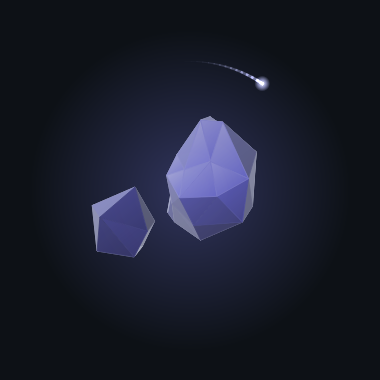
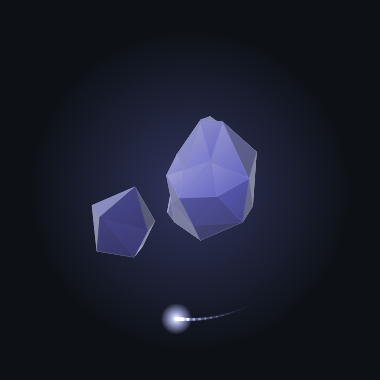
fix: scale the orbiter sparkles; speed up and enlarge the comet
Four changes from judging the avatar on screen at real embed sizes.

The `orbiter` thinking sparkles never scaled. Their core, rays, twinkles
and trail widths were absolute pixels — the `scale` factor in that
function distinguishes which orbit a sparkle belongs to, not how big the
widget is — so on a small embed they held still while everything else
shrank. At a 40px avatar the sparkle core was 6.0px, larger than the
shards it was orbiting; it is now 1.2px, and unchanged at large sizes.

The streaming comet is 50% faster (0.75 -> 1.125 laps/sec) with a head
twice the radius. Both were judged live, not derived.

Mark phase now lives in the model as an integrated value rather than
being recomputed in the renderer from absolute time. `phase = t * rate`
and `phase += rate * dt` agree only while the rate is constant: change
the rate and the first applies it retroactively to all elapsed time, so
the mark teleports. Integrating is what will let a mark's rate become a
smoothed per-state channel the way its mix weight already is. Free
evidence that the two forms agree today: regenerating the state stills
changed only streaming.png, with listening.png byte-identical.

Also corrects prose that called `error` amber in three places. ERROR is
coral (250,110,85); NOTIFY is the amber one. The pictures were right.

Changed region(s): [[0.4053, 0.7816, 0.6079, 0.8974], [0.6658, 0.2026, 0.7237, 0.2605], [0.5789, 0.1737, 0.6658, 0.2026]]

diff --git a/src/ai_identicon/widget.py b/src/ai_identicon/widget.py
@@ -488,7 +488,7 @@ class PresenceWidget(QWidget):
         m = self.model
         p.setBrush(Qt.NoBrush)
         for j in range(2):
-            prog = (m.t * 0.35 * k_t + j / 2.0) % 1.0
+            prog = (m.ripple_phase + j / 2.0) % 1.0
             rr = ring * (1.18 - 0.20 * prog)
             pen = QPen(QColor(*disp, int(55 * math.sin(math.pi * prog) * trace)))
             pen.setWidthF(1.3)
@@ -500,8 +500,8 @@ class PresenceWidget(QWidget):
         fast. Deliberately not the speaking waveform: text is not voice.
 
         The orbit is a FLAT circle at ring radius, which the `orbiter` thinking
-        style (tilted ellipse, closer in, a third the speed, many sparkles) never
-        uses — so the two marks stay legible as different instruments.
+        style (tilted ellipse, closer in, a fraction of the speed, many
+        sparkles) never uses — so the two stay legible as different instruments.
 
         Sized in r-units throughout — the trail spans a fixed arc in radians, the
         widths and head radius are fractions of r — so unlike the rest of this
@@ -509,7 +509,7 @@ class PresenceWidget(QWidget):
         """
         m = self.model
         spark = _lerp_rgb(disp, (255, 255, 255), 0.55)
-        head = m.t * math.tau * 0.75 * k_t   # ~0.75 rev/s, scaled by tempo
+        head = m.comet_phase * math.tau   # rate + integration live in the model
 
         def at(tau):
             return QPointF(cx + ring * math.cos(tau), cy + ring * math.sin(tau))
@@ -527,7 +527,7 @@ class PresenceWidget(QWidget):
         p.setPen(Qt.NoPen)
 
         hd = at(head)
-        core_r = max(1.5, r * 0.13)
+        core_r = max(3.0, r * 0.26)
         core = QRadialGradient(hd, core_r)
         core.setColorAt(0.0, QColor(255, 255, 255, int(235 * comet)))
         core.setColorAt(0.45, QColor(*spark, int(160 * comet)))
@@ -563,7 +563,13 @@ class PresenceWidget(QWidget):
                 return ob["cx"] + ox * tc - oy * ts, ob["cy"] + ox * ts + oy * tc
 
             head_tau = m.t * ob["speed"] * k_t + ob["phase"]
-            scale = min(1.0, ob["rx"] / (r * 1.2))
+            scale = min(1.0, ob["rx"] / (r * 1.2))   # which orbit, not what size
+            # `scale` distinguishes the per-shard orbits from the cluster-wide
+            # one; it does NOT track the widget's size. These sparkle sizes were
+            # authored against r ≈ 60px, so without `u` they stay fixed-size and
+            # swamp a small avatar — at 40px the twinkles were bigger than the
+            # shards. Floors keep strokes from disappearing entirely when tiny.
+            u = r / 60.0
 
             prev = None
             n_trail = 18
@@ -572,7 +578,7 @@ class PresenceWidget(QWidget):
                 if prev is not None:
                     fade = 1.0 - k / n_trail
                     pen = QPen(QColor(*spark_rgb, int(140 * fade ** 1.6 * think)))
-                    pen.setWidthF((0.4 + 2.2 * fade) * scale)
+                    pen.setWidthF(max(0.4, (0.4 + 2.2 * fade) * scale * u))
                     p.setPen(pen)
                     p.drawLine(QPointF(*prev), QPointF(*q))
                 prev = q
@@ -583,16 +589,16 @@ class PresenceWidget(QWidget):
                 tw = abs(math.sin(m.t * 9.0 + j * 2.4 + ob["phase"])) * (1.0 - j / 3.5)
                 if tw < 0.15:
                     continue
-                sz = (0.8 + 2.2 * tw) * scale
+                sz = (0.8 + 2.2 * tw) * scale * u
                 pen = QPen(QColor(*spark_rgb, int(180 * tw * think)))
-                pen.setWidthF(1.0)
+                pen.setWidthF(max(0.4, u))
                 p.setPen(pen)
                 p.drawLine(QPointF(qx - sz, qy), QPointF(qx + sz, qy))
                 p.drawLine(QPointF(qx, qy - sz), QPointF(qx, qy + sz))
             p.setPen(Qt.NoPen)
 
             hxp, hyp = orbit_pos(head_tau)
-            core_r = 6.0 * (0.6 + 0.4 * scale)
+            core_r = max(1.2, 6.0 * (0.6 + 0.4 * scale) * u)
             core = QRadialGradient(QPointF(hxp, hyp), core_r)
             core.setColorAt(0.0, QColor(255, 255, 255, int(225 * think)))
             core.setColorAt(0.4, QColor(*spark_rgb, int(150 * think)))
@@ -600,10 +606,10 @@ class PresenceWidget(QWidget):
             p.setBrush(core)
             p.drawEllipse(QPointF(hxp, hyp), core_r, core_r)
             ray = ((4.5 + 2.0 * math.sin(m.t * 7.0 + ob["phase"]))
-                   * (0.8 + 0.5 * k_e) * (0.6 + 0.4 * scale))
+                   * (0.8 + 0.5 * k_e) * (0.6 + 0.4 * scale) * u)
             rot = m.t * 3.0 + ob["phase"]
             pen = QPen(QColor(255, 255, 255, int(190 * think)))
-            pen.setWidthF(1.1)
+            pen.setWidthF(max(0.4, 1.1 * u))
             p.setPen(pen)
             for base_ang in (rot, rot + math.pi / 2):
                 dxr, dyr = math.cos(base_ang) * ray, math.sin(base_ang) * ray

diff --git a/src/ai_identicon/model.py b/src/ai_identicon/model.py
@@ -71,6 +71,16 @@ TRANSIENT = {AvatarState.NOTIFY: 1.5, AvatarState.SUCCESS: 1.2, AvatarState.ERRO
 _STYLE_SPIN = {"breakup": 1.2, "glow": 0.5, "shimmer": 0.55, "orbiter": 0.5}
 TRACE_SAMPLES = 72
 
+# Ring-mark rates, in laps (or cycles) per second before the personality clock.
+# The MODEL integrates these into a phase instead of the renderer deriving one
+# from absolute time. `phase = t * rate` looks equivalent and is not: the moment
+# a rate changes, that phase JUMPS, because the new rate is applied retroactively
+# to all elapsed time. Accumulating `phase += rate * dt` keeps the mark where it
+# was and merely changes how fast it leaves — which is what lets a rate become a
+# smoothed per-state channel later, the way the mix weights already are.
+COMET_RATE = 1.125   # streaming: laps per second
+RIPPLE_RATE = 0.35   # listening: inward-ripple cycles per second
+
 
 class AvatarModel:
     """Headless animation state for one avatar. Drive with set_state() and
@@ -104,6 +114,8 @@ class AvatarModel:
         self.sac_target = (0.0, 0.0)
         self.next_saccade = 0.0
         self.rings: list[float] = []    # notify-ring birth times (renderer reads)
+        self.comet_phase = 0.0          # streaming comet, in laps (0..1)
+        self.ripple_phase = 0.0         # listening ripples, in cycles (0..1)
 
         self.set_genome(genome)
 
@@ -231,6 +243,11 @@ class AvatarModel:
             self.set_state(AvatarState.IDLE)
 
         k_t = self.k_t
+
+        # integrated mark phases (see COMET_RATE / RIPPLE_RATE) — kept in laps,
+        # 0..1, so the renderer only has to scale them into radians
+        self.comet_phase = (self.comet_phase + COMET_RATE * k_t * dt) % 1.0
+        self.ripple_phase = (self.ripple_phase + RIPPLE_RATE * k_t * dt) % 1.0
 
         if self.state in (AvatarState.IDLE, AvatarState.LISTENING) and self.blink_t > self.next_blink:
             self.blink_t = 0.0

diff --git a/tests/test_widget_marks.py b/tests/test_widget_marks.py
@@ -135,11 +135,14 @@ def test_streaming_comet_moves():
     # barely moved backwards — bound it well short of a full lap too
     assert lap_frac < 0.95, f"ring peak advance folds to near-zero: {lap_frac:.3f} of a lap"
 
-    # roughly the speed _draw_stream_comet's `head` predicts (0.75 rev/s,
-    # scaled by tempo) — a loose band, wide enough to absorb the ~1 degree
-    # of quantization in a 360-sample angle scan, but tight enough to catch
-    # a speed that is wildly wrong (e.g. off by 2x or more)
-    expected = (0.75 * w.model.k_t * (t_b - t_a)) % 1.0
+    # roughly the speed model.COMET_RATE predicts (1.125 laps/s, scaled by
+    # tempo) — a loose band, wide enough to absorb the ~1 degree of
+    # quantization in a 360-sample angle scan, but tight enough to catch a
+    # speed that is wildly wrong (e.g. off by 2x or more).
+    # The rate is duplicated here on purpose rather than imported: an
+    # ACCIDENTAL change to the comet's speed should fail this test, and a
+    # deliberate one should require saying so in two places.
+    expected = (1.125 * w.model.k_t * (t_b - t_a)) % 1.0
     assert abs(lap_frac - expected) < 0.25, (
         f"comet advanced {lap_frac:.3f} of a lap, expected ~{expected:.3f}")
 

diff --git a/examples/gallery.py b/examples/gallery.py
@@ -34,7 +34,7 @@ _CAPTION = {
     AvatarState.STREAMING: "streaming — text arriving; a bright point laps its edge, fast",
     AvatarState.NOTIFY: "notify — a chirp and an excited little spin; returns by itself",
     AvatarState.SUCCESS: "success — a warm pulse and spin-up; returns by itself",
-    AvatarState.ERROR: "error — seized: rotation frozen, amber, one flinch",
+    AvatarState.ERROR: "error — seized: rotation frozen, flushed red, one flinch",
 }
 _THINKING_CAPTION = {
     "breakup": "thinking (breakup) — comes apart to turn the pieces over, gaze down-right",

diff --git a/CHANGELOG.md b/CHANGELOG.md
@@ -25,6 +25,18 @@ package release never changes an existing seed's avatar.
   `KeyError`.
 - **State stills are generated**, not hand-captured
   (`scripts/render_state_stills.py`); all eight are regenerated.
+- **The `orbiter` thinking sparkles now scale with the avatar.** Their core,
+  rays, twinkles and trail were absolute pixel sizes, so on a small embed they
+  stayed put while everything else shrank — at a 40px avatar the sparkle core
+  was larger than the shards. They are now proportional to the orb.
+- **Mark phase is integrated in the model**, not derived from absolute time in
+  the renderer (`COMET_RATE` / `RIPPLE_RATE`). `phase = t * rate` jumps the
+  moment a rate changes, because the new rate applies retroactively to all
+  elapsed time; accumulating `phase += rate * dt` is what will let a mark's
+  rate become a smoothed per-state channel, the way its mix weight already is.
+- **`error` is described as red, not amber.** The prose in the README, the demo
+  script and the gallery all called it amber — but `ERROR` is coral
+  `(250, 110, 85)`; `NOTIFY` is the amber one. The pictures were always right.
 
 Genome derivation and `ALGO_VERSION 1` are unchanged, and the golden SVG hashes
 are untouched — no existing seed's avatar moves.

diff --git a/README.md b/README.md
@@ -56,7 +56,7 @@ face. One seed (`bmev5p5akc`), all eight states:
     <td align="center"><img src="docs/states/streaming.png" width="190"><br><b>streaming</b><br><sub>text arriving; a bright point laps its edge</sub></td>
     <td align="center"><img src="docs/states/notify.png" width="190"><br><b>notify</b><br><sub>a chirp and an excited spin; self‑returns</sub></td>
     <td align="center"><img src="docs/states/success.png" width="190"><br><b>success</b><br><sub>a warm pulse and spin‑up; self‑returns</sub></td>
-    <td align="center"><img src="docs/states/error.png" width="190"><br><b>error</b><br><sub>seized: rotation frozen, amber, one flinch</sub></td>
+    <td align="center"><img src="docs/states/error.png" width="190"><br><b>error</b><br><sub>seized: rotation frozen, flushed red, one flinch</sub></td>
   </tr>
 </table>
 

diff --git a/docs/demo-video-script.md b/docs/demo-video-script.md
@@ -75,7 +75,7 @@ Walk them in this order:
 6. **notify** — *[VO]* "A notification is a quick chirp and an excited little
    spin…" *(it returns to idle on its own)*
 7. **success** — *[VO]* "…success, a warm pulse…"
-8. **error** — *[VO]* "…and an error makes it seize up and flush amber."
+8. **error** — *[VO]* "…and an error makes it seize up and flush red."
 
 **[VO] (closing the section)**
 > None of this is a face. It reads as *presence* — attention, thought, voice —
